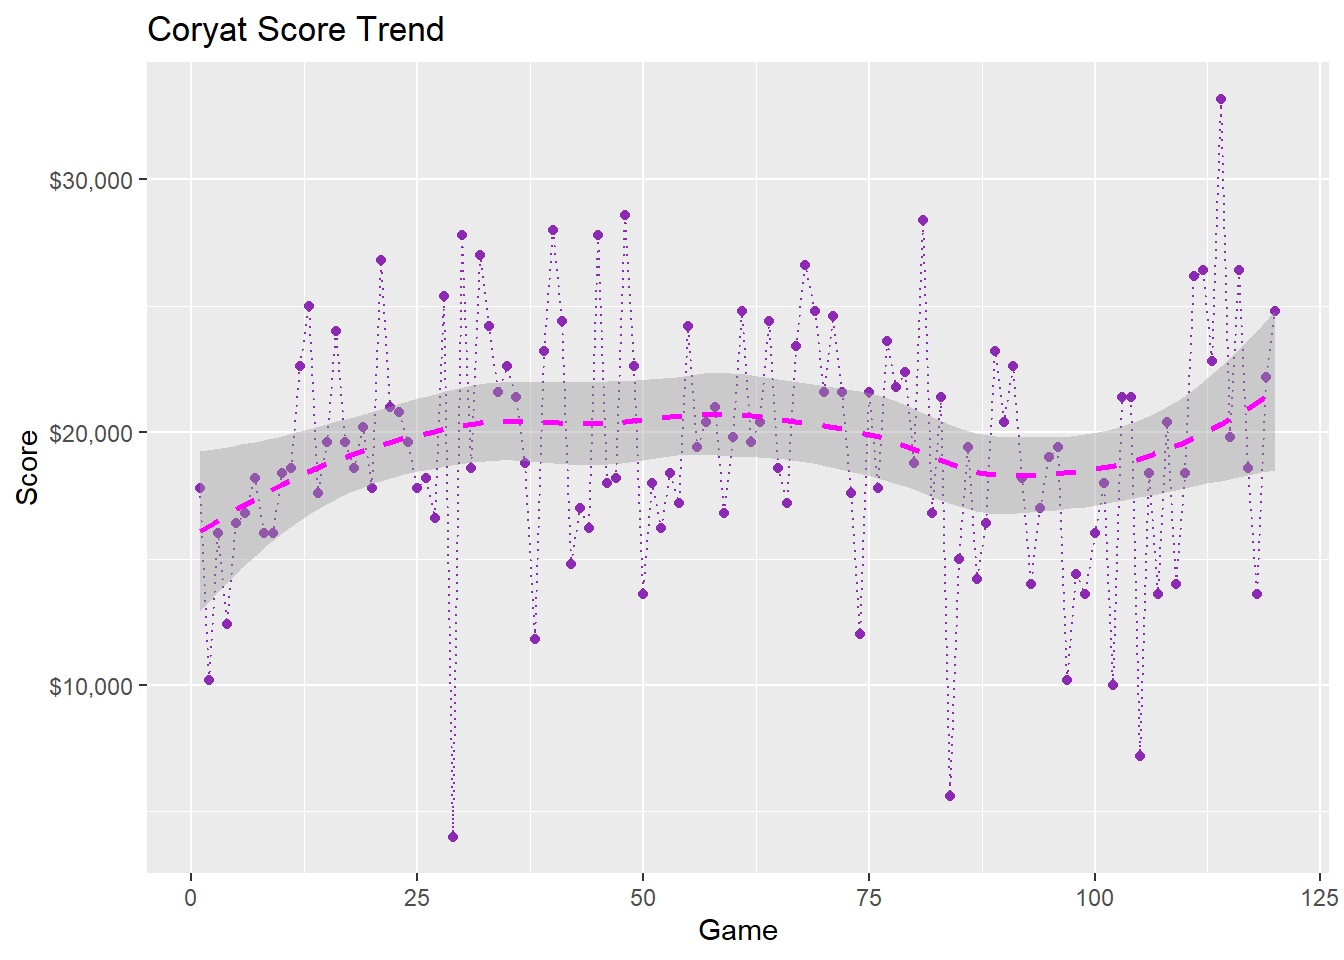
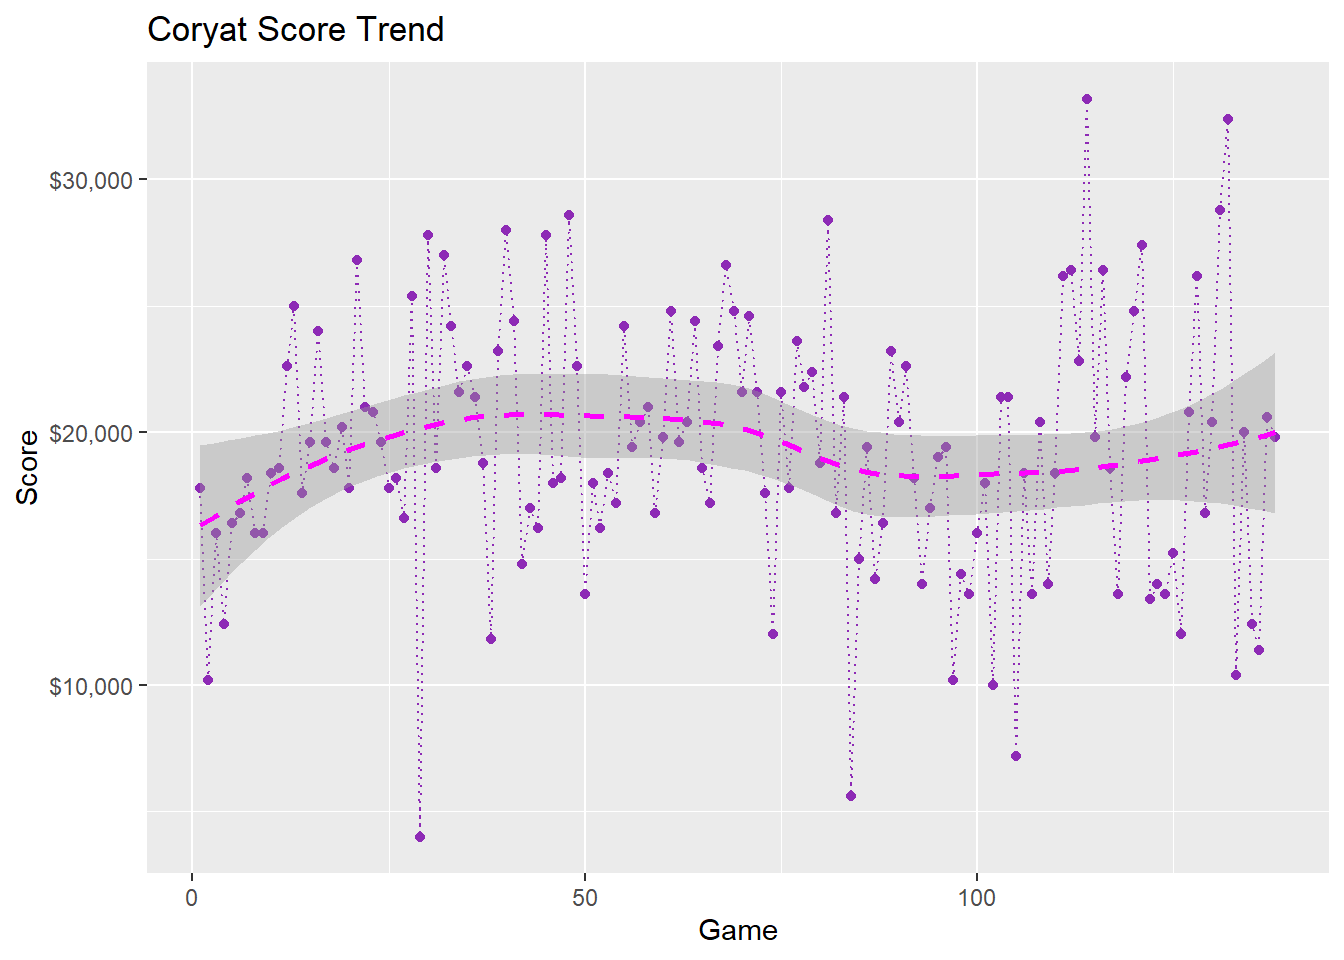
coryat ecdf plot

diff --git a/posts/coryat_scores/coryat_scores.html b/posts/coryat_scores/coryat_scores.html
@@ -2,7 +2,7 @@
 <html xmlns="http://www.w3.org/1999/xhtml" lang="en" xml:lang="en"><head>
 
 <meta charset="utf-8">
-<meta name="generator" content="quarto-1.2.335">
+<meta name="generator" content="quarto-1.3.353">
 
 <meta name="viewport" content="width=device-width, initial-scale=1.0, user-scalable=yes">
 
@@ -19,9 +19,10 @@ div.hanging-indent{margin-left: 1.5em; text-indent: -1.5em;}
 ul.task-list{list-style: none;}
 ul.task-list li input[type="checkbox"] {
   width: 0.8em;
-  margin: 0 0.8em 0.2em -1.6em;
+  margin: 0 0.8em 0.2em -1em; /* quarto-specific, see https://github.com/quarto-dev/quarto-cli/issues/4556 */ 
   vertical-align: middle;
 }
+/* CSS for syntax highlighting */
 pre > code.sourceCode { white-space: pre; position: relative; }
 pre > code.sourceCode > span { display: inline-block; line-height: 1.25; }
 pre > code.sourceCode > span:empty { height: 1.2em; }
@@ -48,43 +49,13 @@ pre.numberSource code > span > a:first-child::before
     -khtml-user-select: none; -moz-user-select: none;
     -ms-user-select: none; user-select: none;
     padding: 0 4px; width: 4em;
-    color: #aaaaaa;
   }
-pre.numberSource { margin-left: 3em; border-left: 1px solid #aaaaaa;  padding-left: 4px; }
+pre.numberSource { margin-left: 3em;  padding-left: 4px; }
 div.sourceCode
   {   }
 @media screen {
 pre > code.sourceCode > span > a:first-child::before { text-decoration: underline; }
 }
-code span.al { color: #ff0000; font-weight: bold; } /* Alert */
-code span.an { color: #60a0b0; font-weight: bold; font-style: italic; } /* Annotation */
-code span.at { color: #7d9029; } /* Attribute */
-code span.bn { color: #40a070; } /* BaseN */
-code span.bu { color: #008000; } /* BuiltIn */
-code span.cf { color: #007020; font-weight: bold; } /* ControlFlow */
-code span.ch { color: #4070a0; } /* Char */
-code span.cn { color: #880000; } /* Constant */
-code span.co { color: #60a0b0; font-style: italic; } /* Comment */
-code span.cv { color: #60a0b0; font-weight: bold; font-style: italic; } /* CommentVar */
-code span.do { color: #ba2121; font-style: italic; } /* Documentation */
-code span.dt { color: #902000; } /* DataType */
-code span.dv { color: #40a070; } /* DecVal */
-code span.er { color: #ff0000; font-weight: bold; } /* Error */
-code span.ex { } /* Extension */
-code span.fl { color: #40a070; } /* Float */
-code span.fu { color: #06287e; } /* Function */
-code span.im { color: #008000; font-weight: bold; } /* Import */
-code span.in { color: #60a0b0; font-weight: bold; font-style: italic; } /* Information */
-code span.kw { color: #007020; font-weight: bold; } /* Keyword */
-code span.op { color: #666666; } /* Operator */
-code span.ot { color: #007020; } /* Other */
-code span.pp { color: #bc7a00; } /* Preprocessor */
-code span.sc { color: #4070a0; } /* SpecialChar */
-code span.ss { color: #bb6688; } /* SpecialString */
-code span.st { color: #4070a0; } /* String */
-code span.va { color: #19177c; } /* Variable */
-code span.vs { color: #4070a0; } /* VerbatimString */
-code span.wa { color: #60a0b0; font-weight: bold; font-style: italic; } /* Warning */
 </style>
 
 
@@ -141,25 +112,25 @@ code span.wa { color: #60a0b0; font-weight: bold; font-style: italic; } /* Warni
           <div class="collapse navbar-collapse" id="navbarCollapse">
             <ul class="navbar-nav navbar-nav-scroll me-auto">
   <li class="nav-item">
-    <a class="nav-link" href="../../index.html">
+    <a class="nav-link" href="../../index.html" rel="" target="">
  <span class="menu-text">Home</span></a>
   </li>  
   <li class="nav-item">
-    <a class="nav-link" href="../../posts.html">
+    <a class="nav-link" href="../../posts.html" rel="" target="">
  <span class="menu-text">Index</span></a>
   </li>  
   <li class="nav-item">
-    <a class="nav-link" href="../../links.html">
+    <a class="nav-link" href="../../links.html" rel="" target="">
  <span class="menu-text">Links</span></a>
   </li>  
   <li class="nav-item">
-    <a class="nav-link" href="../../resume.pdf">
+    <a class="nav-link" href="../../resume.pdf" rel="" target="">
  <span class="menu-text">Resume</span></a>
   </li>  
 </ul>
-              <div class="quarto-toggle-container">
-                  <a href="" class="quarto-color-scheme-toggle nav-link" onclick="window.quartoToggleColorScheme(); return false;" title="Toggle dark mode"><i class="bi"></i></a>
-              </div>
+            <div class="quarto-navbar-tools ms-auto">
+  <a href="" class="quarto-color-scheme-toggle quarto-navigation-tool  px-1" onclick="window.quartoToggleColorScheme(); return false;" title="Toggle dark mode"><i class="bi"></i></a>
+</div>
           </div> <!-- /navcollapse -->
       </div> <!-- /container-fluid -->
     </nav>
@@ -216,7 +187,7 @@ code span.wa { color: #60a0b0; font-weight: bold; font-style: italic; } /* Warni
 <p>It took a little effort to reverse-engineer the format of the files produced by J! Scorer. (I did this before finding the above-mentioned GitHub repo.) I used <code>jsonlite::read_json</code> plus a little trial and error. Then it’s just a matter of straightforward data transformations using <code>dplyr</code>.</p>
 <div class="cell" data-layout-align="center">
 <div class="sourceCode cell-code" id="cb1"><pre class="sourceCode r code-with-copy"><code class="sourceCode r"><span id="cb1-1"><a href="#cb1-1" aria-hidden="true" tabindex="-1"></a><span class="co"># read the JSON file, convert to data frame, and unnest some columns</span></span>
-<span id="cb1-2"><a href="#cb1-2" aria-hidden="true" tabindex="-1"></a><span class="fu">read_json</span>(<span class="st">"backup20230502183052.jscor"</span>, <span class="at">simplifyVector =</span> <span class="cn">TRUE</span>) <span class="sc">|&gt;</span></span>
+<span id="cb1-2"><a href="#cb1-2" aria-hidden="true" tabindex="-1"></a><span class="fu">read_json</span>(<span class="fu">list.files</span>()[<span class="fu">grep</span>(<span class="st">".jscor"</span>, <span class="fu">list.files</span>())], <span class="at">simplifyVector =</span> <span class="cn">TRUE</span>) <span class="sc">|&gt;</span></span>
 <span id="cb1-3"><a href="#cb1-3" aria-hidden="true" tabindex="-1"></a>  <span class="fu">as.data.frame</span>() <span class="sc">|&gt;</span></span>
 <span id="cb1-4"><a href="#cb1-4" aria-hidden="true" tabindex="-1"></a>  <span class="fu">unnest</span>(<span class="at">cols =</span> <span class="fu">c</span>(games_attributes.sixths_attributes,</span>
 <span id="cb1-5"><a href="#cb1-5" aria-hidden="true" tabindex="-1"></a>                  games_attributes.final_attributes),</span>
@@ -245,12 +216,9 @@ code span.wa { color: #60a0b0; font-weight: bold; font-style: italic; } /* Warni
 <h2 class="anchored" data-anchor-id="average-score">Average Score</h2>
 <p>An average score of around $25,000 is considered appropriate for prospective contestants.</p>
 <div class="cell" data-layout-align="center">
-<div class="sourceCode cell-code" id="cb2"><pre class="sourceCode r code-with-copy"><code class="sourceCode r"><span id="cb2-1"><a href="#cb2-1" aria-hidden="true" tabindex="-1"></a>coryat_scores <span class="sc">|&gt;</span></span>
-<span id="cb2-2"><a href="#cb2-2" aria-hidden="true" tabindex="-1"></a>  <span class="fu">pull</span>(score) <span class="sc">|&gt;</span></span>
-<span id="cb2-3"><a href="#cb2-3" aria-hidden="true" tabindex="-1"></a>  <span class="fu">mean</span>() <span class="sc">|&gt;</span></span>
-<span id="cb2-4"><a href="#cb2-4" aria-hidden="true" tabindex="-1"></a>  <span class="fu">round</span>()</span></code><button title="Copy to Clipboard" class="code-copy-button"><i class="bi"></i></button></pre></div>
+<div class="sourceCode cell-code" id="cb2"><pre class="sourceCode r code-with-copy"><code class="sourceCode r"><span id="cb2-1"><a href="#cb2-1" aria-hidden="true" tabindex="-1"></a>coryat_scores <span class="sc">|&gt;</span> <span class="fu">pull</span>(score) <span class="sc">|&gt;</span> <span class="fu">mean</span>() <span class="sc">|&gt;</span> <span class="fu">round</span>()</span></code><button title="Copy to Clipboard" class="code-copy-button"><i class="bi"></i></button></pre></div>
 <div class="cell-output cell-output-stdout">
-<pre><code>[1] 19457</code></pre>
+<pre><code>[1] 19351</code></pre>
 </div>
 </div>
 <p>Clearly, I have some studying to do before I consider trying to compete on the show.</p>
@@ -258,27 +226,27 @@ code span.wa { color: #60a0b0; font-weight: bold; font-style: italic; } /* Warni
 <section id="visualizing-scores" class="level2">
 <h2 class="anchored" data-anchor-id="visualizing-scores">Visualizing Scores</h2>
 <p>We can create a histogram showing the distribution of my scores and a line chart showing the evolution of my scores over time using <code>ggplot2</code>.</p>
-<div class="panel-tabset">
-<ul class="nav nav-tabs" role="tablist"><li class="nav-item" role="presentation"><a class="nav-link active" id="tabset-1-1-tab" data-bs-toggle="tab" data-bs-target="#tabset-1-1" role="tab" aria-controls="tabset-1-1" aria-selected="true">Histogram</a></li><li class="nav-item" role="presentation"><a class="nav-link" id="tabset-1-2-tab" data-bs-toggle="tab" data-bs-target="#tabset-1-2" role="tab" aria-controls="tabset-1-2" aria-selected="false">Line Chart</a></li></ul>
+<div class="tabset-margin-container"></div><div class="panel-tabset">
+<ul class="nav nav-tabs" role="tablist"><li class="nav-item" role="presentation"><a class="nav-link active" id="tabset-1-1-tab" data-bs-toggle="tab" data-bs-target="#tabset-1-1" role="tab" aria-controls="tabset-1-1" aria-selected="true">Empirical Cumulative Distribution</a></li><li class="nav-item" role="presentation"><a class="nav-link" id="tabset-1-2-tab" data-bs-toggle="tab" data-bs-target="#tabset-1-2" role="tab" aria-controls="tabset-1-2" aria-selected="false">Line Chart and Histogram</a></li></ul>
 <div class="tab-content">
 <div id="tabset-1-1" class="tab-pane active" role="tabpanel" aria-labelledby="tabset-1-1-tab">
 <div class="cell" data-layout-align="center">
 <details>
 <summary>Code</summary>
 <div class="sourceCode cell-code" id="cb4"><pre class="sourceCode r code-with-copy"><code class="sourceCode r"><span id="cb4-1"><a href="#cb4-1" aria-hidden="true" tabindex="-1"></a>coryat_scores <span class="sc">|&gt;</span></span>
-<span id="cb4-2"><a href="#cb4-2" aria-hidden="true" tabindex="-1"></a>  <span class="fu">ggplot</span>(<span class="fu">aes</span>(<span class="at">x =</span> score)) <span class="sc">+</span></span>
-<span id="cb4-3"><a href="#cb4-3" aria-hidden="true" tabindex="-1"></a>  <span class="fu">geom_histogram</span>(<span class="at">fill =</span> <span class="st">"#8D2AB5"</span>) <span class="sc">+</span></span>
-<span id="cb4-4"><a href="#cb4-4" aria-hidden="true" tabindex="-1"></a>  <span class="fu">geom_hline</span>(<span class="at">yintercept =</span> <span class="dv">1</span><span class="sc">:</span><span class="dv">15</span>, <span class="at">colour =</span> <span class="st">"grey92"</span>) <span class="sc">+</span></span>
-<span id="cb4-5"><a href="#cb4-5" aria-hidden="true" tabindex="-1"></a>  <span class="fu">geom_vline</span>(<span class="at">xintercept =</span> <span class="fu">seq</span>(<span class="dv">500</span>, <span class="dv">29500</span>, <span class="dv">1000</span>), <span class="at">colour =</span> <span class="st">"grey92"</span>) <span class="sc">+</span></span>
-<span id="cb4-6"><a href="#cb4-6" aria-hidden="true" tabindex="-1"></a>  <span class="fu">scale_x_continuous</span>(<span class="at">labels =</span> scales<span class="sc">::</span><span class="fu">label_dollar</span>()) <span class="sc">+</span></span>
-<span id="cb4-7"><a href="#cb4-7" aria-hidden="true" tabindex="-1"></a>  <span class="fu">labs</span>(<span class="at">title =</span> <span class="st">"Distribution of Coryat Scores"</span>, </span>
+<span id="cb4-2"><a href="#cb4-2" aria-hidden="true" tabindex="-1"></a>  <span class="fu">arrange</span>(score) <span class="sc">|&gt;</span></span>
+<span id="cb4-3"><a href="#cb4-3" aria-hidden="true" tabindex="-1"></a>  <span class="fu">ggplot</span>(<span class="fu">aes</span>(<span class="at">x =</span> score, <span class="at">y =</span> <span class="fu">cumsum</span>(score)<span class="sc">/</span><span class="fu">sum</span>(score))) <span class="sc">+</span></span>
+<span id="cb4-4"><a href="#cb4-4" aria-hidden="true" tabindex="-1"></a>  <span class="fu">geom_line</span>(<span class="at">color =</span> <span class="st">"#8D2AB5"</span>, <span class="at">size =</span> <span class="dv">2</span>) <span class="sc">+</span></span>
+<span id="cb4-5"><a href="#cb4-5" aria-hidden="true" tabindex="-1"></a>  <span class="fu">scale_x_continuous</span>(<span class="at">labels =</span> scales<span class="sc">::</span><span class="fu">label_dollar</span>()) <span class="sc">+</span></span>
+<span id="cb4-6"><a href="#cb4-6" aria-hidden="true" tabindex="-1"></a>  <span class="fu">scale_y_continuous</span>(<span class="at">labels =</span> scales<span class="sc">::</span><span class="fu">label_percent</span>()) <span class="sc">+</span></span>
+<span id="cb4-7"><a href="#cb4-7" aria-hidden="true" tabindex="-1"></a>  <span class="fu">labs</span>(<span class="at">title =</span> <span class="st">"Cumulative Distribution of Coryat Scores"</span>, </span>
 <span id="cb4-8"><a href="#cb4-8" aria-hidden="true" tabindex="-1"></a>       <span class="at">x =</span> <span class="st">"Score"</span>, </span>
-<span id="cb4-9"><a href="#cb4-9" aria-hidden="true" tabindex="-1"></a>       <span class="at">y =</span> <span class="st">"Count of Games"</span>)</span></code><button title="Copy to Clipboard" class="code-copy-button"><i class="bi"></i></button></pre></div>
+<span id="cb4-9"><a href="#cb4-9" aria-hidden="true" tabindex="-1"></a>       <span class="at">y =</span> <span class="st">"Percentile"</span>)</span></code><button title="Copy to Clipboard" class="code-copy-button"><i class="bi"></i></button></pre></div>
 </details>
 <div class="cell-output-display">
 <div class="quarto-figure quarto-figure-center">
 <figure class="figure">
-<p><a href="coryat_scores_files/figure-html/histogram-1.png" class="lightbox" data-gallery="quarto-lightbox-gallery-1"><img src="coryat_scores_files/figure-html/histogram-1.png" class="img-fluid figure-img" width="672"></a></p>
+<p><a href="coryat_scores_files/figure-html/empirical-cumulative-distribution-1.png" class="lightbox" data-gallery="quarto-lightbox-gallery-1"><img src="coryat_scores_files/figure-html/empirical-cumulative-distribution-1.png" class="img-fluid figure-img" width="672"></a></p>
 </figure>
 </div>
 </div>
@@ -288,19 +256,20 @@ code span.wa { color: #60a0b0; font-weight: bold; font-style: italic; } /* Warni
 <div class="cell" data-layout-align="center">
 <details>
 <summary>Code</summary>
-<div class="sourceCode cell-code" id="cb5"><pre class="sourceCode r code-with-copy"><code class="sourceCode r"><span id="cb5-1"><a href="#cb5-1" aria-hidden="true" tabindex="-1"></a>coryat_scores <span class="sc">|&gt;</span></span>
+<div class="sourceCode cell-code" id="cb5"><pre class="sourceCode r code-with-copy"><code class="sourceCode r"><span id="cb5-1"><a href="#cb5-1" aria-hidden="true" tabindex="-1"></a>(coryat_scores <span class="sc">|&gt;</span></span>
 <span id="cb5-2"><a href="#cb5-2" aria-hidden="true" tabindex="-1"></a>  <span class="fu">ggplot</span>(<span class="fu">aes</span>(<span class="at">x =</span> game, <span class="at">y =</span> score)) <span class="sc">+</span></span>
 <span id="cb5-3"><a href="#cb5-3" aria-hidden="true" tabindex="-1"></a>  <span class="fu">geom_point</span>(<span class="at">colour =</span> <span class="st">"#8D2AB5"</span>) <span class="sc">+</span></span>
 <span id="cb5-4"><a href="#cb5-4" aria-hidden="true" tabindex="-1"></a>  <span class="fu">geom_line</span>(<span class="at">colour =</span> <span class="st">"#8D2AB5"</span>, <span class="at">linetype =</span> <span class="st">"dotted"</span>) <span class="sc">+</span></span>
 <span id="cb5-5"><a href="#cb5-5" aria-hidden="true" tabindex="-1"></a>  <span class="fu">ylim</span>(<span class="dv">0</span>, <span class="dv">30000</span>) <span class="sc">+</span></span>
 <span id="cb5-6"><a href="#cb5-6" aria-hidden="true" tabindex="-1"></a>  <span class="fu">scale_y_continuous</span>(<span class="at">labels=</span>scales<span class="sc">::</span><span class="fu">label_dollar</span>()) <span class="sc">+</span></span>
 <span id="cb5-7"><a href="#cb5-7" aria-hidden="true" tabindex="-1"></a>  <span class="fu">stat_smooth</span>(<span class="at">colour =</span> <span class="st">"magenta"</span>, <span class="at">linetype =</span> <span class="st">"dashed"</span>) <span class="sc">+</span></span>
-<span id="cb5-8"><a href="#cb5-8" aria-hidden="true" tabindex="-1"></a>  <span class="fu">labs</span>(<span class="at">title =</span> <span class="st">"Coryat Score Trend"</span>, <span class="at">x =</span> <span class="st">"Game"</span>, <span class="at">y =</span> <span class="st">"Score"</span>)</span></code><button title="Copy to Clipboard" class="code-copy-button"><i class="bi"></i></button></pre></div>
+<span id="cb5-8"><a href="#cb5-8" aria-hidden="true" tabindex="-1"></a>  <span class="fu">labs</span>(<span class="at">title =</span> <span class="st">"Coryat Score Trend"</span>, <span class="at">x =</span> <span class="st">"Game"</span>, <span class="at">y =</span> <span class="st">"Score"</span>)) <span class="sc">|&gt;</span></span>
+<span id="cb5-9"><a href="#cb5-9" aria-hidden="true" tabindex="-1"></a>  <span class="fu">ggMarginal</span>(<span class="at">type =</span> <span class="st">"histogram"</span>, <span class="at">margins =</span> <span class="st">"y"</span>, <span class="at">fill =</span> <span class="st">"#8D2AB5"</span>)</span></code><button title="Copy to Clipboard" class="code-copy-button"><i class="bi"></i></button></pre></div>
 </details>
 <div class="cell-output-display">
 <div class="quarto-figure quarto-figure-center">
 <figure class="figure">
-<p><a href="coryat_scores_files/figure-html/line chart-1.png" class="lightbox" data-gallery="quarto-lightbox-gallery-2"><img src="coryat_scores_files/figure-html/line chart-1.png" class="img-fluid figure-img" width="672"></a></p>
+<p><a href="coryat_scores_files/figure-html/line-chart-1.png" class="lightbox" data-gallery="quarto-lightbox-gallery-2"><img src="coryat_scores_files/figure-html/line-chart-1.png" class="img-fluid figure-img" width="672"></a></p>
 </figure>
 </div>
 </div>
@@ -464,9 +433,23 @@ window.document.addEventListener("DOMContentLoaded", function (event) {
     icon: icon
   };
   anchorJS.add('.anchored');
+  const isCodeAnnotation = (el) => {
+    for (const clz of el.classList) {
+      if (clz.startsWith('code-annotation-')) {                     
+        return true;
+      }
+    }
+    return false;
+  }
   const clipboard = new window.ClipboardJS('.code-copy-button', {
-    target: function(trigger) {
-      return trigger.previousElementSibling;
+    text: function(trigger) {
+      const codeEl = trigger.previousElementSibling.cloneNode(true);
+      for (const childEl of codeEl.children) {
+        if (isCodeAnnotation(childEl)) {
+          childEl.remove();
+        }
+      }
+      return codeEl.innerText;
     }
   });
   clipboard.on('success', function(e) {
@@ -531,6 +514,92 @@ window.document.addEventListener("DOMContentLoaded", function (event) {
       return note.innerHTML;
     });
   }
+      let selectedAnnoteEl;
+      const selectorForAnnotation = ( cell, annotation) => {
+        let cellAttr = 'data-code-cell="' + cell + '"';
+        let lineAttr = 'data-code-annotation="' +  annotation + '"';
+        const selector = 'span[' + cellAttr + '][' + lineAttr + ']';
+        return selector;
+      }
+      const selectCodeLines = (annoteEl) => {
+        const doc = window.document;
+        const targetCell = annoteEl.getAttribute("data-target-cell");
+        const targetAnnotation = annoteEl.getAttribute("data-target-annotation");
+        const annoteSpan = window.document.querySelector(selectorForAnnotation(targetCell, targetAnnotation));
+        const lines = annoteSpan.getAttribute("data-code-lines").split(",");
+        const lineIds = lines.map((line) => {
+          return targetCell + "-" + line;
+        })
+        let top = null;
+        let height = null;
+        let parent = null;
+        if (lineIds.length > 0) {
+            //compute the position of the single el (top and bottom and make a div)
+            const el = window.document.getElementById(lineIds[0]);
+            top = el.offsetTop;
+            height = el.offsetHeight;
+            parent = el.parentElement.parentElement;
+          if (lineIds.length > 1) {
+            const lastEl = window.document.getElementById(lineIds[lineIds.length - 1]);
+            const bottom = lastEl.offsetTop + lastEl.offsetHeight;
+            height = bottom - top;
+          }
+          if (top !== null && height !== null && parent !== null) {
+            // cook up a div (if necessary) and position it 
+            let div = window.document.getElementById("code-annotation-line-highlight");
+            if (div === null) {
+              div = window.document.createElement("div");
+              div.setAttribute("id", "code-annotation-line-highlight");
+              div.style.position = 'absolute';
+              parent.appendChild(div);
+            }
+            div.style.top = top - 2 + "px";
+            div.style.height = height + 4 + "px";
+            let gutterDiv = window.document.getElementById("code-annotation-line-highlight-gutter");
+            if (gutterDiv === null) {
+              gutterDiv = window.document.createElement("div");
+              gutterDiv.setAttribute("id", "code-annotation-line-highlight-gutter");
+              gutterDiv.style.position = 'absolute';
+              const codeCell = window.document.getElementById(targetCell);
+              const gutter = codeCell.querySelector('.code-annotation-gutter');
+              gutter.appendChild(gutterDiv);
+            }
+            gutterDiv.style.top = top - 2 + "px";
+            gutterDiv.style.height = height + 4 + "px";
+          }
+          selectedAnnoteEl = annoteEl;
+        }
+      };
+      const unselectCodeLines = () => {
+        const elementsIds = ["code-annotation-line-highlight", "code-annotation-line-highlight-gutter"];
+        elementsIds.forEach((elId) => {
+          const div = window.document.getElementById(elId);
+          if (div) {
+            div.remove();
+          }
+        });
+        selectedAnnoteEl = undefined;
+      };
+      // Attach click handler to the DT
+      const annoteDls = window.document.querySelectorAll('dt[data-target-cell]');
+      for (const annoteDlNode of annoteDls) {
+        annoteDlNode.addEventListener('click', (event) => {
+          const clickedEl = event.target;
+          if (clickedEl !== selectedAnnoteEl) {
+            unselectCodeLines();
+            const activeEl = window.document.querySelector('dt[data-target-cell].code-annotation-active');
+            if (activeEl) {
+              activeEl.classList.remove('code-annotation-active');
+            }
+            selectCodeLines(clickedEl);
+            clickedEl.classList.add('code-annotation-active');
+          } else {
+            // Unselect the line
+            unselectCodeLines();
+            clickedEl.classList.remove('code-annotation-active');
+          }
+        });
+      }
   const findCites = (el) => {
     const parentEl = el.parentElement;
     if (parentEl) {
@@ -571,7 +640,7 @@ window.document.addEventListener("DOMContentLoaded", function (event) {
 });
 </script>
 </div> <!-- /content -->
-<script>var lightboxQuarto = GLightbox({"selector":".lightbox","loop":true,"openEffect":"zoom","descPosition":"bottom","closeEffect":"zoom"});</script>
+<script>var lightboxQuarto = GLightbox({"closeEffect":"zoom","selector":".lightbox","loop":true,"descPosition":"bottom","openEffect":"zoom"});</script>
 
 
 

diff --git a/posts.html b/posts.html
@@ -245,7 +245,7 @@ Jan 2, 2023
 </a>
 </div>
 </div>
-<div class="quarto-post image-right" data-index="4" data-listing-date-sort="1665979200000" data-listing-file-modified-sort="1683088006409" data-listing-date-modified-sort="NaN" data-listing-reading-time-sort="4">
+<div class="quarto-post image-right" data-index="4" data-listing-date-sort="1665979200000" data-listing-file-modified-sort="1686778337222" data-listing-date-modified-sort="NaN" data-listing-reading-time-sort="4">
 <div class="thumbnail">
 <p><a href="./posts/coryat_scores/coryat_scores.html"> <img src="./posts/coryat_scores/coryat_scores.jpg" class="thumbnail-image"> </a></p>
 </div>

diff --git a/posts/crossword_times/crossword_times.html b/posts/crossword_times/crossword_times.html
@@ -600,7 +600,7 @@ window.document.addEventListener("DOMContentLoaded", function (event) {
 });
 </script>
 </div> <!-- /content -->
-<script>var lightboxQuarto = GLightbox({"closeEffect":"zoom","openEffect":"zoom","loop":true,"selector":".lightbox","descPosition":"bottom"});</script>
+<script>var lightboxQuarto = GLightbox({"descPosition":"bottom","closeEffect":"zoom","loop":true,"selector":".lightbox","openEffect":"zoom"});</script>
 
 
 
